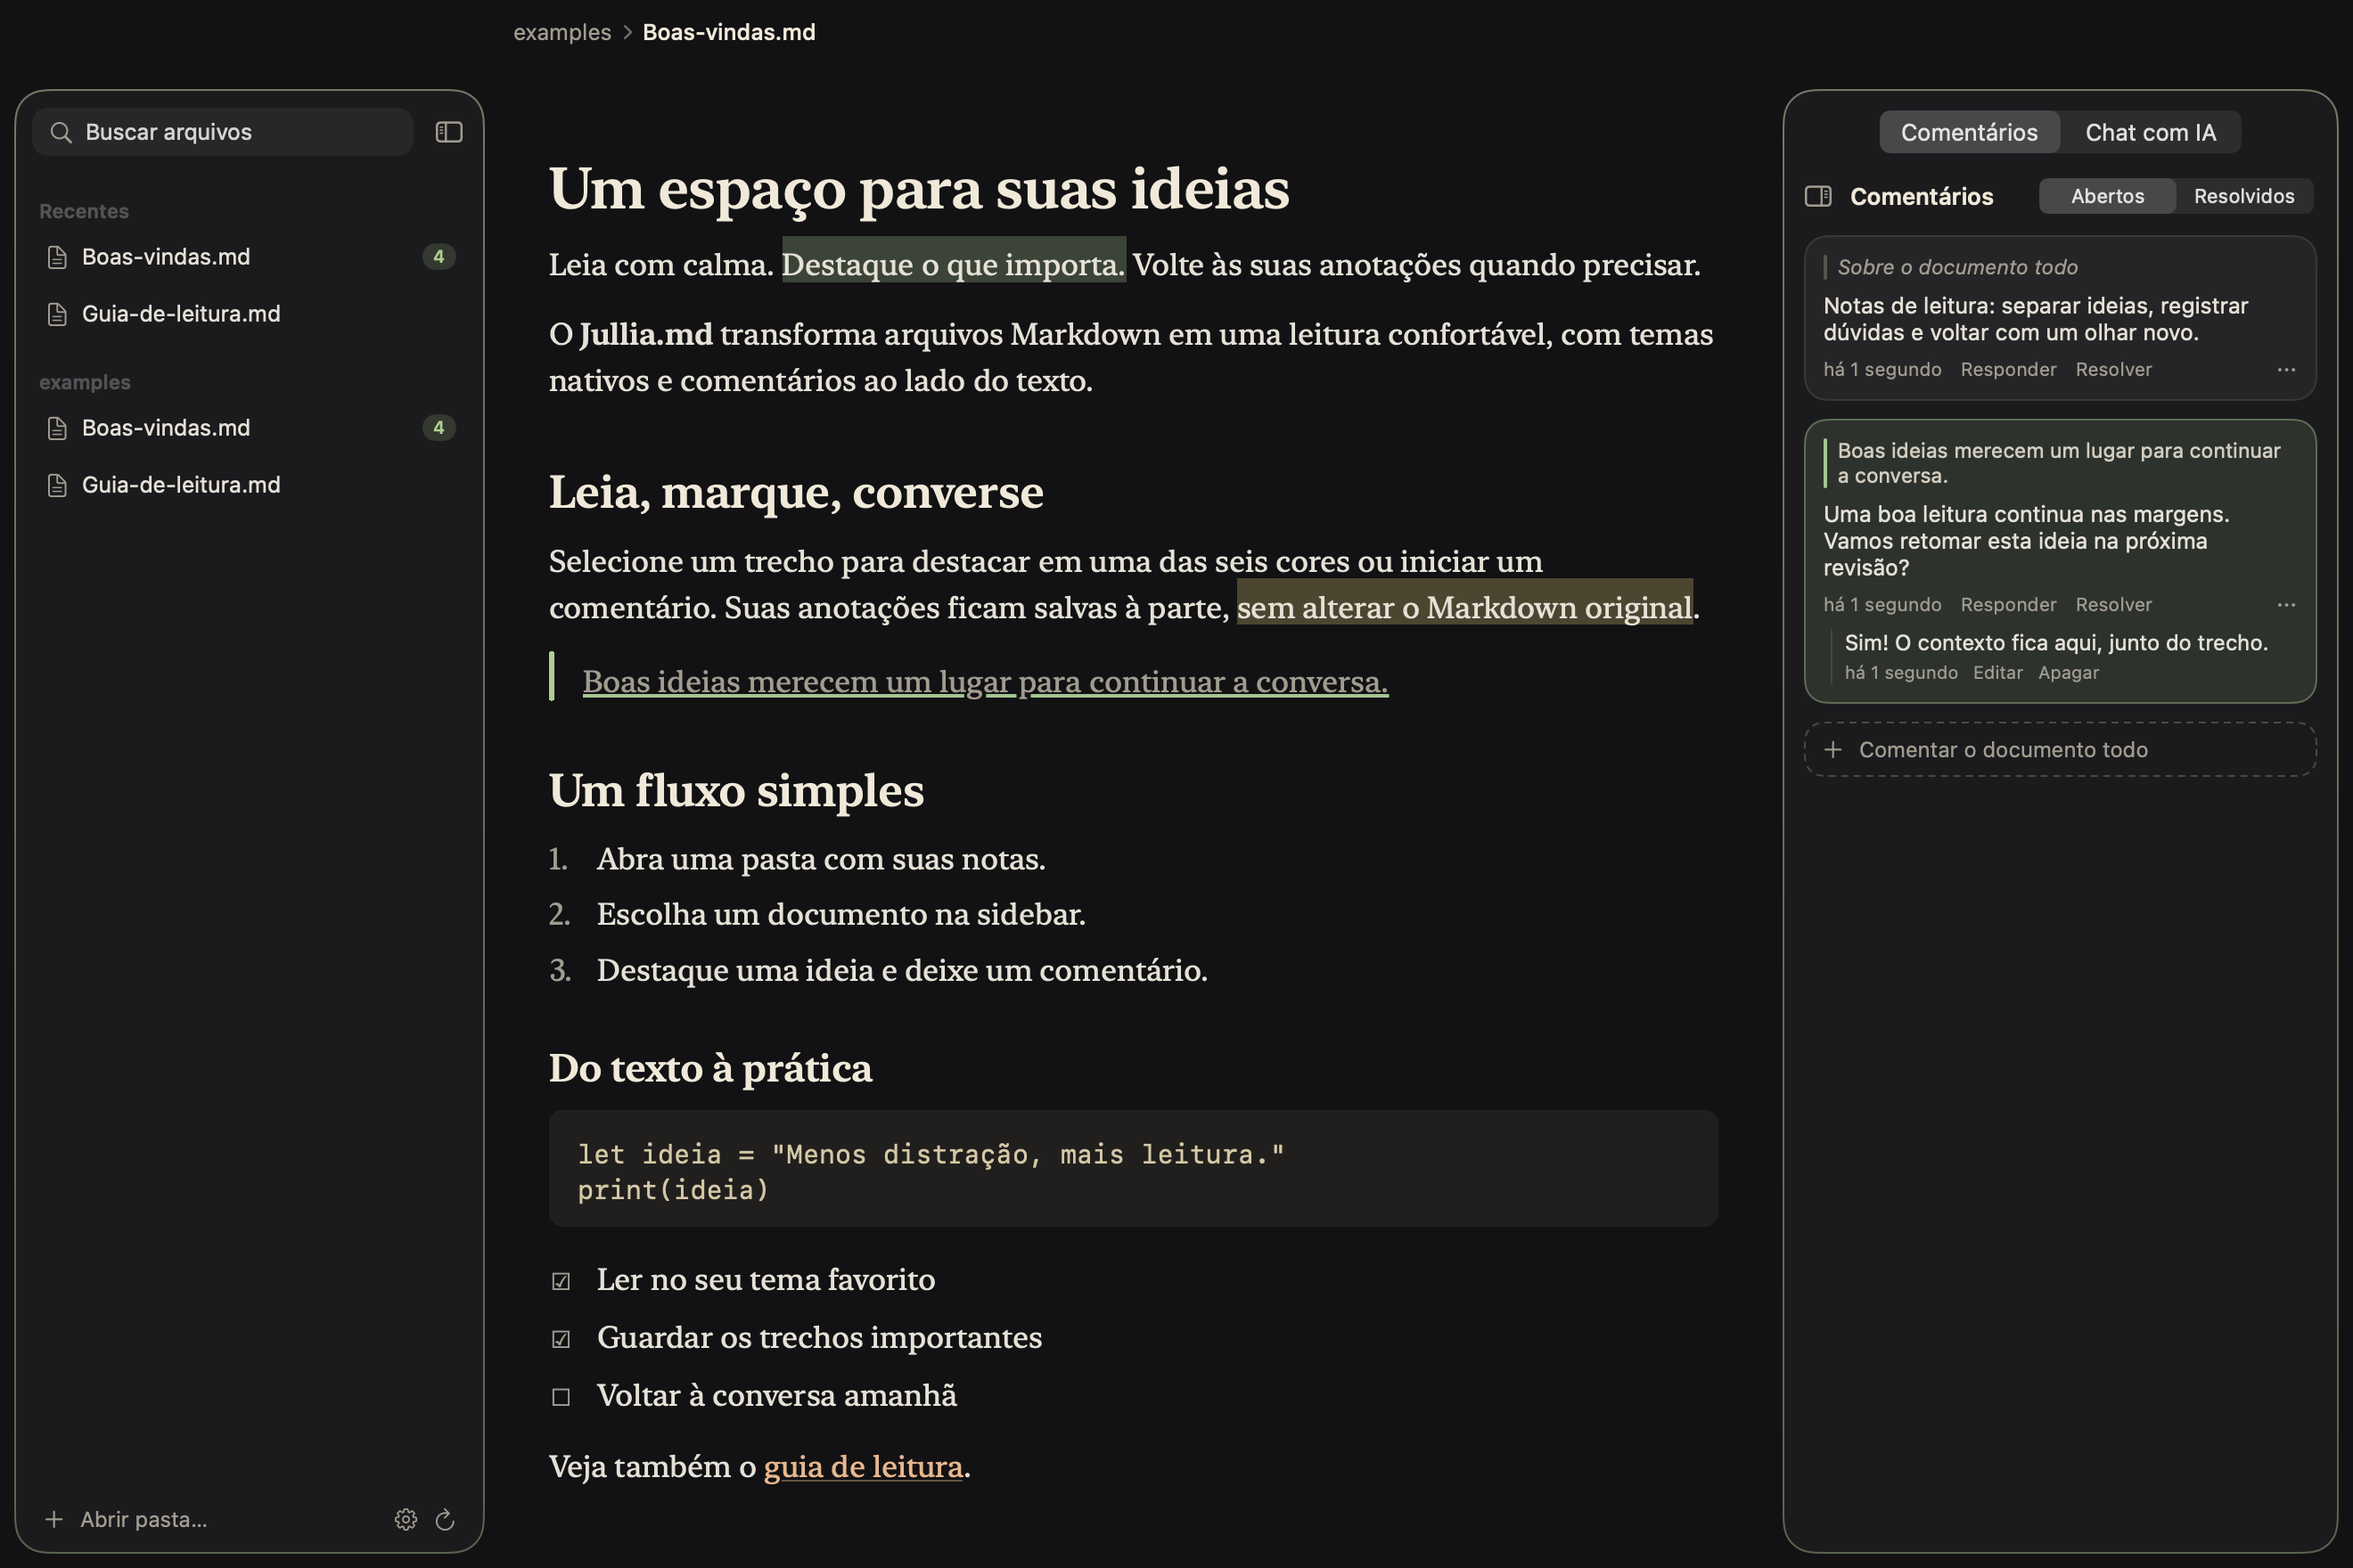
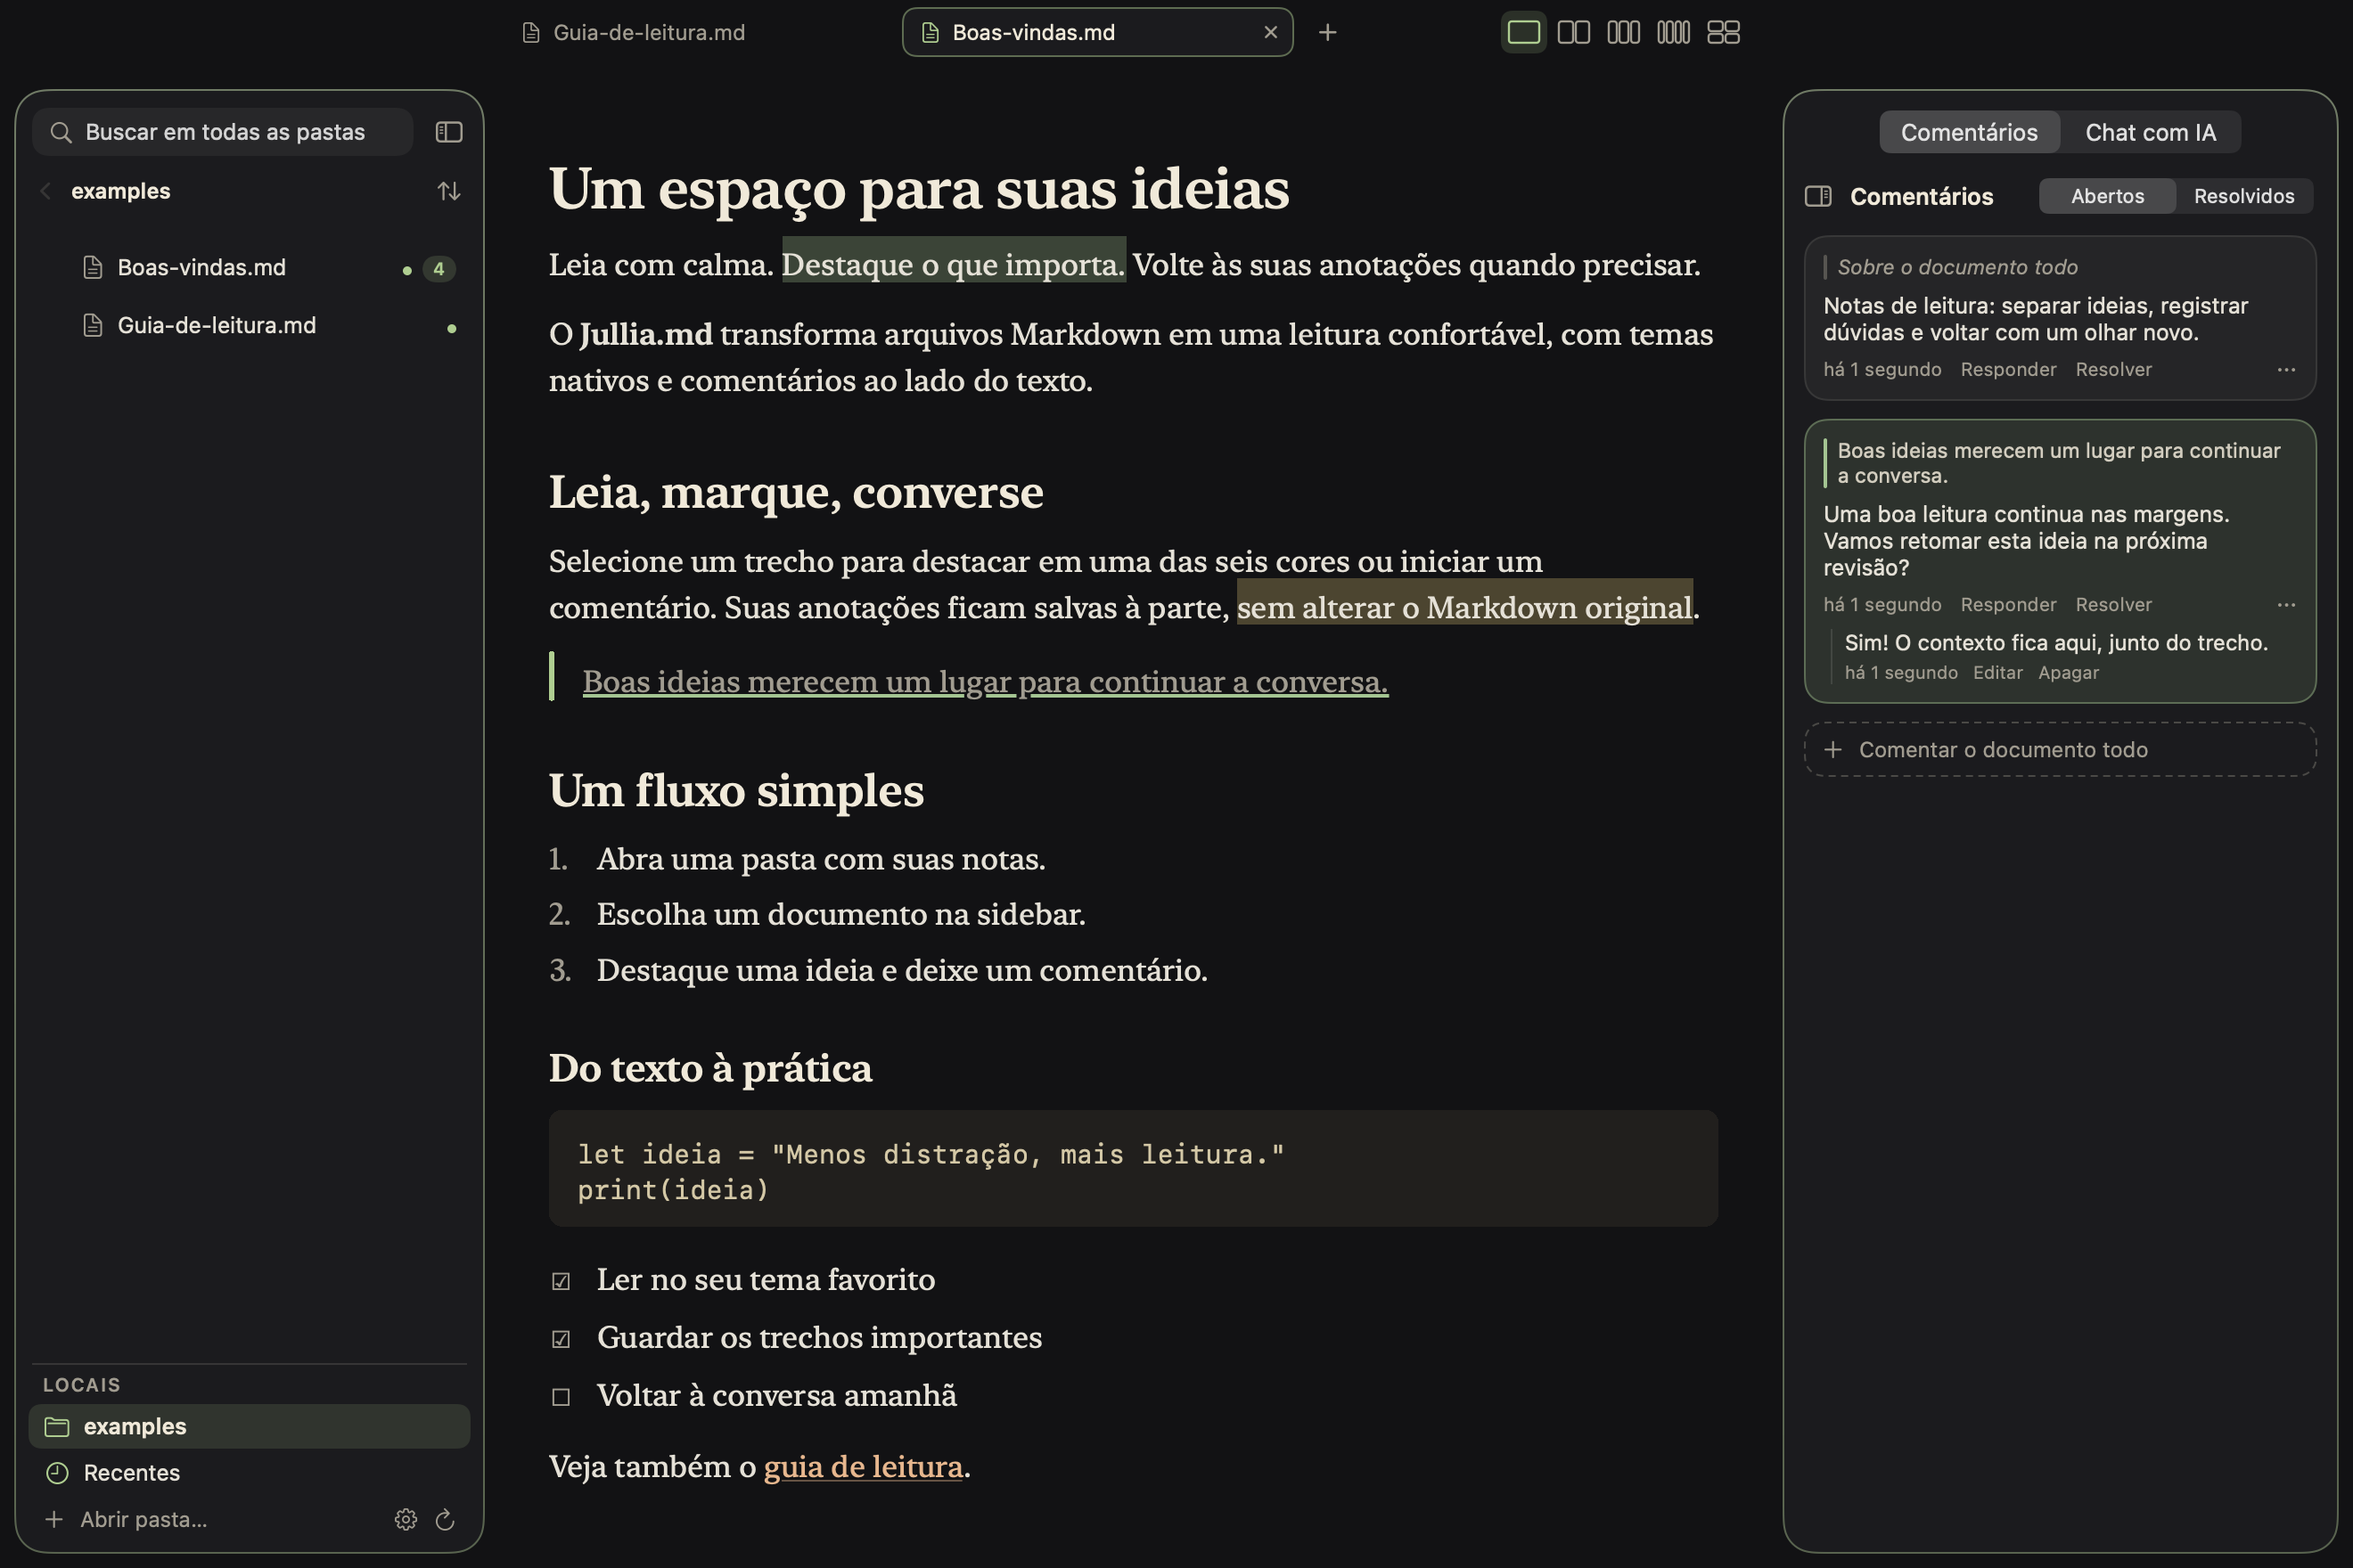
docs: refresh screenshots for the folder sidebar and tabs

diff --git a/Tests/JulliaAppTests/ScreenshotTests.swift b/Tests/JulliaAppTests/ScreenshotTests.swift
@@ -24,7 +24,7 @@ import Testing
         settings.commentsGlass.enabled = false
         let model = AppModel(defaults: defaults, settings: settings, storeURL: nil)
         model.addFolder(examples)
-        model.openFile(examples.appending(path: "Guia-de-leitura.md"))
+        model.openFile(examples.appending(path: "Guia-de-leitura.md"), as: .permanent)
         model.openFile(file)
         let document = try #require(model.document)
         document.highlight(document.text.range(of: "Destaque o que importa."), color: .green)
